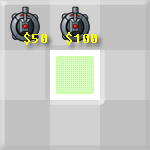
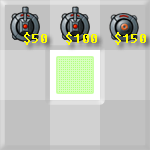
Laser tower

Changed region(s): [[0.72, 0.08, 1.0, 0.32]]

diff --git a/tower/model/Game.js b/tower/model/Game.js
@@ -248,8 +248,8 @@ function Game(canvasManager)
             {    
                 if (currentBullet.type === "smallDamage" || currentBullet.type === "mediumDamage")
                     this.canvasManager.drawCircle(currentBullet.realPosition.x, currentBullet.realPosition.y, 2, "blue", "#CCCCCC");
-                //else if (currentBullet.type === "laser")
-                    //this.canvasManager  drawCircle(currentBullet.realPosition.x, currentBullet.realPosition.y, 2, "blue", "#CCCCCC");                
+                else if (currentBullet.type === "laser")
+                    this.canvasManager.drawLine(currentBullet.realPosition.x, currentBullet.realPosition.y, currentBullet.enemyTarget.realPosition.x, currentBullet.enemyTarget.realPosition.y, "red");
             }
         }
         // MOUSE SELECTOR
@@ -335,11 +335,14 @@ function Game(canvasManager)
                 setTimeout("juego.initializePlayingMainLoop()", 1000);
                 break;
             case "playing":
+                this.state = "working";
                 this.doActions();
                 this.drawMap();
                 this.drawAll();
                 this.animateAll();
                 this.deadBodiesCollect();
+                if (this.state !== "gameover")
+                    this.state = "playing";
                 break;
             case "gameover":
                 this.canvasManager.showMousePointer();
@@ -385,6 +388,12 @@ function Game(canvasManager)
             {
                 realPosition = new Vector2((this.selectedCellPosition.x * 50) + 5, (this.selectedCellPosition.y * 50) + 5);
                 this.addTower("chinoky_2", realPosition);
+                this.optionBoxVisible = false;
+            }
+            else if (diffCellX === -1 && diffCellY === 1)
+            {
+                realPosition = new Vector2((this.selectedCellPosition.x * 50) + 5, (this.selectedCellPosition.y * 50) + 5);
+                this.addTower("tesla", realPosition);
                 this.optionBoxVisible = false;
             }
             else

diff --git a/tower/model/Factories.js b/tower/model/Factories.js
@@ -15,7 +15,7 @@ function BulletFactory()
                 bullet = new Bullet(bulletOuid++, shot.bulletType, 6, 15, 30);
                 break;
              case "laser":
-                bullet = new Bullet(bulletOuid++, shot.bulletType, -1, 20, 5);
+                bullet = new Bullet(bulletOuid++, shot.bulletType, -1, 50, 5);
                 break;
         }
         if (bullet !== null)
@@ -53,12 +53,29 @@ function TowerFactory()
         {
             case "chinoky":
                 tower = new Tower(towerOuid++, type, 70, 2, "smallDamage", 20, 50, 25);
+                /* IDEA OF JSON INIT 
+                tower.jsonInit(
+                    {
+                        id: towerOuid++,
+                        type: type,
+                        cannonLenght: 25,
+                        levels: 
+                        [
+                            // LEVEL 1
+                            {attackRange: 70, angularSpeed: 2, bulletType: "smallDamage", reloadTime: 20, cost: 50},
+                            // LEVEL 2
+                            {attackRange: 70, angularSpeed: 2, bulletType: "smallDamage", reloadTime: 20, cost: 50}, 
+                            // LEVEL 3
+                            {attackRange: 70, angularSpeed: 2, bulletType: "mediumDamage", reloadTime: 20, cost: 50}
+                        ]
+                    }
+                ); */              
                 break;
             case "chinoky_2":
                 tower = new Tower(towerOuid++, type, 210, 5, "mediumDamage", 10, 100, 25);
                 break;
             case "tesla":
-                tower = new Tower(towerOuid++, type, 250, 90, "laser", 100, 100, 0);
+                tower = new Tower(towerOuid++, type, 250, 90, "laser", 60, 150, 0);
                 break;
         }
         if (tower !== null && isset(cellPosition))

diff --git a/tower/model/Tower.js b/tower/model/Tower.js
@@ -19,6 +19,16 @@ function Tower(id, type, attackRange, angularSpeed, bulletType, reloadTime, cost
     this.turretAngle = 0;
     this.level = 1;
     this.cannonLenght = cannonLenght;
+    this.jsonInit = function(jsonData)
+    {
+        var jsonObject = jsonEval(jsonData);
+        this.id = jsonObject.id;
+        this.type = jsonObject.type;
+        /* this.attackRange = jsonObject.attackRange;
+        this.angularSpeed = jsonObject.angularSpeed;
+        this.bulletType = jsonObject.bulletType;
+        this.reloadTime = jsonObject.reloadTime; */
+    };
     this.setCellPosition = function(cellPosition)
     {
         this.cellPosition = cellPosition;

diff --git a/tower/model/AnimationManager.js b/tower/model/AnimationManager.js
@@ -23,6 +23,11 @@ function AnimationManager(resourceManager)
                     // animation = new Animation(image, image.width / 2, image.height, 2, 15);
                     animation = new Animation(image, image.width, image.height, 1, 15);
                     break;
+                case "tesla":
+                    image = this.resourceManager.getImage('laserTower');
+                    // animation = new Animation(image, image.width / 2, image.height, 2, 15);
+                    animation = new Animation(image, image.width, image.height, 1, 15);
+                    break;
             }
         }
         // ENIMIES

diff --git a/tower/model/ResourceManager.js b/tower/model/ResourceManager.js
@@ -22,6 +22,7 @@ function ResourceManager()
         this.addImage("alien_1", relPath + "img/alien_2.png");
         this.addImage("alien_2", relPath + "img/alien_3.png");
         this.addImage("tower", relPath + "img/turret_3.png");
+        this.addImage("laserTower", relPath + "img/laserTurret_1.png");
         this.addImage("moneyBox", relPath + "img/moneyBox.png");
         this.addImage("gameOver", relPath + "img/gameOver_1.png");
         this.addImage("optionBox", relPath + "img/optionBox.png");

diff --git a/index.html b/index.html
@@ -18,8 +18,7 @@
             juego = new Game(canvasManager);
             juego.start();
             $("mainCanvas").onclick = mouseDownHandler;
-            $("mainCanvas").onmousemove = mouseMoveHandler;
-            
+            $("mainCanvas").onmousemove = mouseMoveHandler;            
             // AUDIO TEST
             /*audioManager = new AudioManager();
             audioManager.init(5);            

diff --git a/tower/util/canvasManager.js b/tower/util/canvasManager.js
@@ -27,8 +27,10 @@ function CanvasManager(canvasId)
         this.context.save();
         this.context.strokeStyle = lineColor;  
         this.context.beginPath();
-        // TODO...
+        this.context.moveTo(x1, y1);
+        this.context.lineTo(x2, y2);
         this.context.closePath();
+        this.context.stroke();
         this.context.restore();
     };
     // DRAW / FILL RECTANGLE

diff --git a/tower/modules/main.js b/tower/modules/main.js
@@ -71,3 +71,7 @@ function mouseMoveHandler(ev)
     juego.mouseMove(mousePosition.x, mousePosition.y);
     //$content($("debugWindow"), "x: " + mousePosition.x);
 }
+function jsonEval(jsonData)
+{
+    return eval('(' + jsonData + ')');
+}
